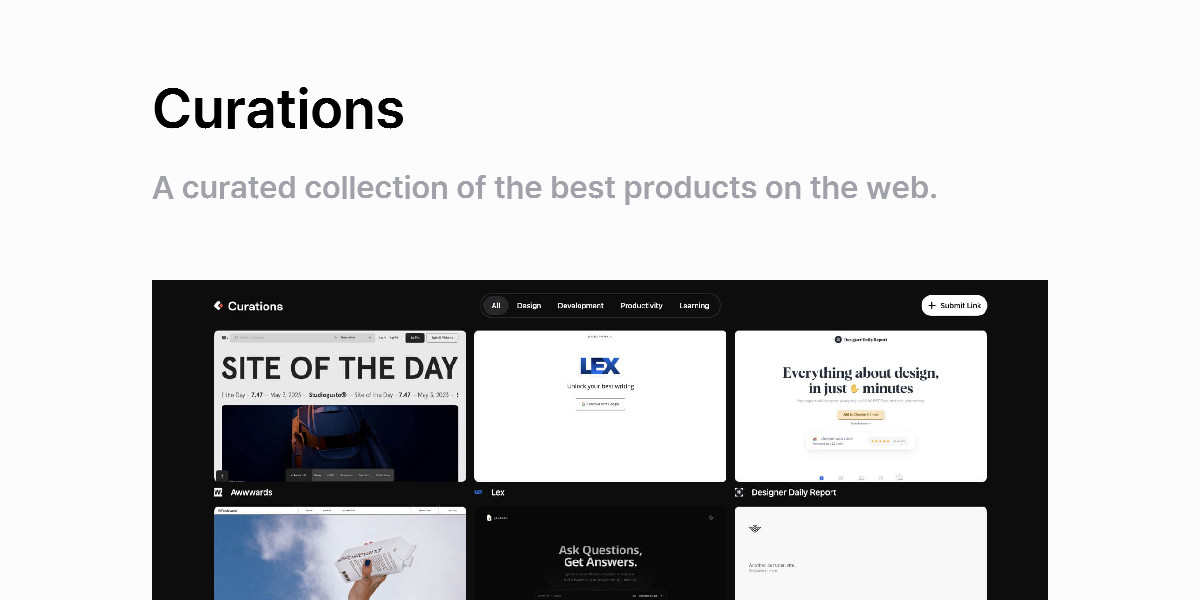
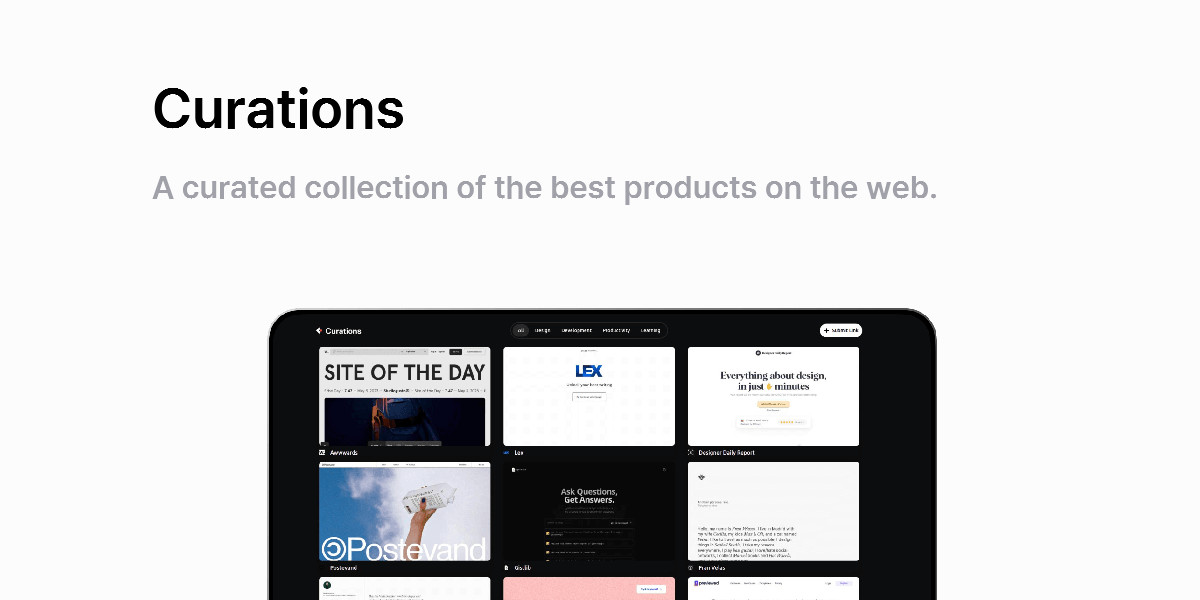
feat: design changes

Changed region(s): [[0.1233, 0.45, 0.8942, 1.0]]

diff --git a/interface/sections/Work.tsx b/interface/sections/Work.tsx
@@ -47,7 +47,7 @@ export default function Work(props: {
                   <img class="w-8 h-8" src={project.icon} />
                 </div>
                 <div class="w-full">
-                  <div class="flex gap-8 justify-between items-center sticky top-0 lg:top-14 z-40 py-2">
+                  <div class="flex gap-4 md:gap-8 justify-between items-center sticky top-0 lg:top-14 z-40 py-2">
                     <div class="w-full h-full absolute left-1/2 -translate-x-1/2 bg-light-zinc/95 backdrop-blur-xl dark:bg-black/90" />
                     <div class="flex md:gap-3 gap-2 items-center relative">
                       <h3 class="text-2xl font-semibold">{project.title}</h3>
@@ -81,7 +81,12 @@ export default function Work(props: {
                   <p class="mb-6 text-zinc-500 dark:text-zinc-400">
                     {project.description}
                   </p>
-                  <img src={project.cover} />
+                  <div class="bg-zinc-100 dark:bg-zinc-900/70 overflow-hidden lg:h-[512px]">
+                    <img
+                      class="relative lg:top-8 md:left-0 md:h-auto h-96 md:object-fit md:object-center object-cover object-left"
+                      src={project.cover}
+                    />
+                  </div>
                 </div>
               </div>
             </div>

diff --git a/build/generateOpengraph.js b/build/generateOpengraph.js
@@ -78,6 +78,19 @@ fs.readdir("./content", (err, folders) => {
               ctx.drawImage(img, 152, 280, 896, 560)
             })
             .catch((e) => console.log("Error: ", e))
+        } else if (info.cover && info.cover.includes(".png")) {
+          const publicRoot = "./public"
+
+          await PImage.decodePNGFromStream(
+            fs.createReadStream(`${publicRoot}${info.cover}`)
+          )
+            .then((img) => {
+              // img width and height should be accordingly calculated
+              // to contain the same aspect ratio, but the widht should
+              // be exactly 1040
+              ctx.drawImage(img, 152, 280, 896, 560)
+            })
+            .catch((e) => console.log("Error: ", e))
         }
 
         PImage.encodeJPEGToStream(

diff --git a/design-system/markdown.css b/design-system/markdown.css
@@ -30,6 +30,10 @@ article {
             flex-direction: row;
             gap: 8rem;
         }
+
+        & info-grid>div:nth-child(2) {
+            margin-top: 3.2rem;
+        }
     }
 
     @media screen and (max-width: 1023px) {
@@ -40,6 +44,11 @@ article {
 
         & info-grid>div>p {
             margin-bottom: 1rem;
+        }
+
+        & info-grid>div:nth-child(2) {
+            max-width: 32rem;
+            width: 100%;
         }
     }
 

diff --git a/content/work/inlang.md b/content/work/inlang.md
@@ -2,7 +2,7 @@
 title: inlang
 description: Building an ecosystem for globalization.
 icon: /images/inlang/inlang-icon.svg
-cover: /images/inlang/cover-inlang.jpg
+cover: /images/inlang/inlang.png
 date: 10 / 2023
 ---
 
@@ -22,12 +22,11 @@ most likely only interested you when you want to know more about me as a develop
 
 <div>
 
-Info
-| | |
-| ------------- | ------------- |
-| Year | 2023 |
+|               |                                                                                                                                                                                                                                                                                                                        |
+| ------------- | ---------------------------------------------------------------------------------------------------------------------------------------------------------------------------------------------------------------------------------------------------------------------------------------------------------------------- |
+| Year          | 2023                                                                                                                                                                                                                                                                                                                   |
 | Collaborators | [Samuel Stroschein](https://github.com/samuelstroschein), [Felix Häberle](https://github.com/felixhaeberle), [Jan Johannes](https://github.com/janfjohannes), [Niklas Buchfink](https://github.com/NiklasBuchfink), [Nils Jacobsen](https://github.com/NilsJacobsen), [Jannes Blobel](https://github.com/jannesblobel) |
-| Website | [inlang.com](https://inlang.com) |
+| Website       | [inlang.com](https://inlang.com)                                                                                                                                                                                                                                                                                       |
 
 </div>
 </info-grid>

diff --git a/content/archive/stackoverflow-redesign.md b/content/archive/stackoverflow-redesign.md
@@ -15,12 +15,11 @@ Redesign & VS Code Extension
 </div>
 <div>
 
-Info
-| | |
-| ------------- | ------------- |
-| Year | 2022 |
-| Collaborator | [Nils Eller](https://nilseller.com) |
-| Website | [Prototype](https://www.figma.com/proto/UIh7ItWTGGOeEmcRwNq9Of/stackoverflow_redesign?page-id=218%3A884&node-id=427%3A1477&viewport=330%2C-71%2C0.02&scaling=scale-down&starting-point-node-id=427%3A1477&show-proto-sidebar=1) |
+|              |                                                                                                                                                                                                                                 |
+| ------------ | ------------------------------------------------------------------------------------------------------------------------------------------------------------------------------------------------------------------------------- |
+| Year         | 2022                                                                                                                                                                                                                            |
+| Collaborator | [Nils Eller](https://nilseller.com)                                                                                                                                                                                             |
+| Website      | [Prototype](https://www.figma.com/proto/UIh7ItWTGGOeEmcRwNq9Of/stackoverflow_redesign?page-id=218%3A884&node-id=427%3A1477&viewport=330%2C-71%2C0.02&scaling=scale-down&starting-point-node-id=427%3A1477&show-proto-sidebar=1) |
 
 </div>
 </info-grid>

diff --git a/content/archive/nutri.md b/content/archive/nutri.md
@@ -16,12 +16,11 @@ Social Food App
 
 <div>
 
-Info
-| | |
-| ------------- | ------------- |
-| Year | 2022 - 2023 |
-| Collaborators | [Nils Eller](https://nilseller.com), [Anton Stallbörger](https://antonstallboerger.com) |
-| Website | [Prototype](https://www.figma.com/proto/tO5jcdD8IQBqJ6M6atsSHg/Designmethoden-Prototypen?page-id=0%3A1&node-id=1%3A7&viewport=-126%2C337%2C0.16&scaling=scale-down&starting-point-node-id=1%3A7&show-proto-sidebar=1) |
+|               |                                                                                                                                                                                                                       |
+| ------------- | --------------------------------------------------------------------------------------------------------------------------------------------------------------------------------------------------------------------- |
+| Year          | 2022 - 2023                                                                                                                                                                                                           |
+| Collaborators | [Nils Eller](https://nilseller.com), [Anton Stallbörger](https://antonstallboerger.com)                                                                                                                               |
+| Website       | [Prototype](https://www.figma.com/proto/tO5jcdD8IQBqJ6M6atsSHg/Designmethoden-Prototypen?page-id=0%3A1&node-id=1%3A7&viewport=-126%2C337%2C0.16&scaling=scale-down&starting-point-node-id=1%3A7&show-proto-sidebar=1) |
 
 </div>
 </info-grid>

diff --git a/content/archive/homebility.md b/content/archive/homebility.md
@@ -15,12 +15,11 @@ Smart home application with a big focus on UX
 </div>
 <div>
 
-Info
-| | |
-| ------------- | ------------- |
-| Year | 2022 - 2023 |
-| Collaborator | [Alice Sopp](https://alicesopp.com) |
-| Website | [Prototype](https://www.figma.com/proto/nNVxSEvwhOYCrpbsEkcdy2/visual_prototyping_project?page-id=304%3A10971&node-id=399%3A18472&viewport=712%2C458%2C0.07&scaling=scale-down&starting-point-node-id=399%3A18472) |
+|              |                                                                                                                                                                                                                    |
+| ------------ | ------------------------------------------------------------------------------------------------------------------------------------------------------------------------------------------------------------------ |
+| Year         | 2022 - 2023                                                                                                                                                                                                        |
+| Collaborator | [Alice Sopp](https://alicesopp.com)                                                                                                                                                                                |
+| Website      | [Prototype](https://www.figma.com/proto/nNVxSEvwhOYCrpbsEkcdy2/visual_prototyping_project?page-id=304%3A10971&node-id=399%3A18472&viewport=712%2C458%2C0.07&scaling=scale-down&starting-point-node-id=399%3A18472) |
 
 </div>
 </info-grid>

diff --git a/README.md b/README.md
@@ -1,8 +1,29 @@
-Example using `vike` with `preact` and [client-side routing](https://vike.com/client-routing).
+<a href="https://github.com/flornkm/florians-site">
+   <img src="./public/images/assets/readme-banner.png" alt="Florian Website Readme Banner">
+  </a>
 
-```bash
-git clone git@github.com:brillout/vike
-cd vike/examples/preact-client-routing/
-npm install
-npm run dev
-```
+  <h3 align="center">Florians Site</h3>
+
+  <p align="center">
+    Personal, open-source website of Florian.
+    <br />
+    <a href="https://floriankiem.com"><strong>Visit Site →</strong></a>
+    <br />
+    <br />
+    <a href="https://twitter.com/flornkm">x.com</a>
+    –
+    <a href="mailto:hello@floriankiem.com">E-Mail</a>
+    –
+    <a href="https://floriankiem.com/colophon">Learn more</a>
+  </p>
+</p>
+
+## About this project
+
+This is the third big iteration of my personal website. I made my first one in 2019 and am hosting the files on GitHub since the beginning of 2022.
+
+I'm a `design engineer`. That means, I'm both a creative and a logical thinker trying to combine both skills in one job.
+
+## Contact me
+
+As other design engineers, product designers or frontend developers, I'm quite active on `Twitter / X`. Feel free to give me a follow and conctact me over there: [@flornkm](https://twitter.com/flornkm).

diff --git a/content/work/curations.md b/content/work/curations.md
@@ -2,7 +2,7 @@
 title: Curations
 description: A curated collection of the best products on the web.
 icon: /images/curations/curations-icon.svg
-cover: /images/curations/cover-curations.jpg
+cover: /images/curations/curations.png
 date: 04 / 2023
 ---
 
@@ -17,12 +17,11 @@ A curated collection of the best products on the web.
 
 <div>
 
-Info
-| | |
-| ------------- | ------------- |
-| Year | 2022 - 2023 |
+|               |                                                                                                                          |
+| ------------- | ------------------------------------------------------------------------------------------------------------------------ |
+| Year          | 2022 - 2023                                                                                                              |
 | Collaborators | [Nils Eller](https://nilseller.com), [[Anton Stallbörger](https://antonstallboerger.com)](https://antonstallboerger.com) |
-| Website | [curations.tech](https://curations.tech) |
+| Website       | [curations.tech](https://curations.tech)                                                                                 |
 
 </div>
 </info-grid>

diff --git a/content/archive/heartbeat.md b/content/archive/heartbeat.md
@@ -15,12 +15,11 @@ Heart Simulator & Monitoring
 </div>
 <div>
 
-Info
-| | |
-| ------------- | ------------- |
-| Year | 2022 - 2023 |
-| Collaborator | [Anton Stallbörger](https://antonstallboerger.com) |
-| Website | [Documentation](https://heartbeat-documentation.vercel.app/) |
+|              |                                                              |
+| ------------ | ------------------------------------------------------------ |
+| Year         | 2022 - 2023                                                  |
+| Collaborator | [Anton Stallbörger](https://antonstallboerger.com)           |
+| Website      | [Documentation](https://heartbeat-documentation.vercel.app/) |
 
 </div>
 </info-grid>

diff --git a/content/archive/visualization.md b/content/archive/visualization.md
@@ -15,12 +15,11 @@ ThreeJS Data Visualization
 </div>
 <div>
 
-Info
-| | |
-| ------------- | ------------- |
-| Year | 2022 |
-| Collaborator | [Nils Eller](https://nilseller.com) |
-| Website | [Demo](https://homicides-visualization.designwithtech.com/) |
+|              |                                                             |
+| ------------ | ----------------------------------------------------------- |
+| Year         | 2022                                                        |
+| Collaborator | [Nils Eller](https://nilseller.com)                         |
+| Website      | [Demo](https://homicides-visualization.designwithtech.com/) |
 
 </div>
 </info-grid>

diff --git a/content/work/bridge.md b/content/work/bridge.md
@@ -2,7 +2,7 @@
 title: Bridge
 description: Browser based job page creator for Startups and SMEs.
 icon: /images/bridge/bridge-icon.svg
-cover: /images/bridge/cover-bridge.jpg
+cover: /images/bridge/bridge.png
 date: 03 / 2023
 ---
 
@@ -16,10 +16,9 @@ Browser based job page creator for Startups and SMEs.
 </div>
 <div>
 
-Info
-| | |
-| ------------- | ------------- |
-| Year | 2023 |
+|         |                                         |
+| ------- | --------------------------------------- |
+| Year    | 2023                                    |
 | Website | [bridge.supply](https://bridge.supply/) |
 
 </div>
